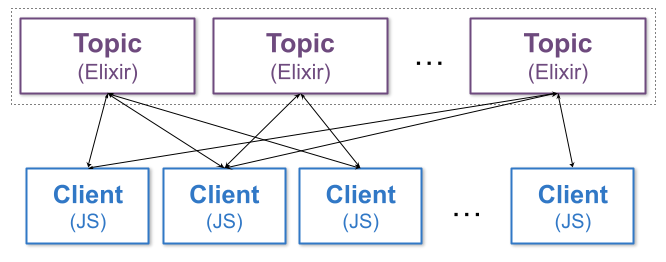
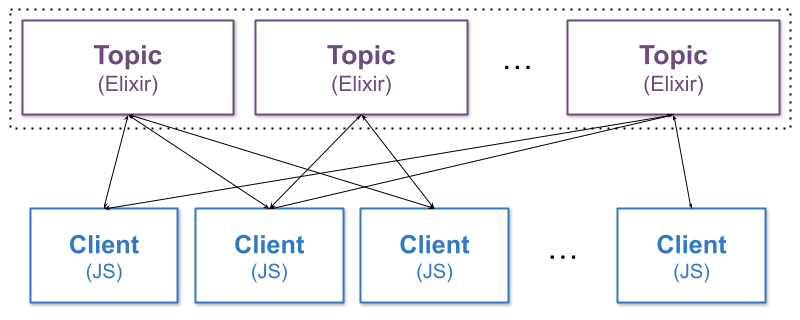
Make architecture image bigger

diff --git a/README.md b/README.md
@@ -24,7 +24,9 @@ Topical is an Elixir library for synchronising server-maintained state (_topics_
 
 The accompanying JavaScript library (and React hooks) allow clients to easily connect to topics, and efficiently receive real-time updates. Clients can also send requests (or notifications) upstream to the server.
 
-<p><img src="architecture.png" width="333" alt="Architecture diagram" /></p>
+<p align="center">
+  <img src="architecture.png" width="400" alt="Architecture diagram" />
+</p>
 
 See the [Getting started](https://hexdocs.pm/topical/getting-started.html) guide.
 
